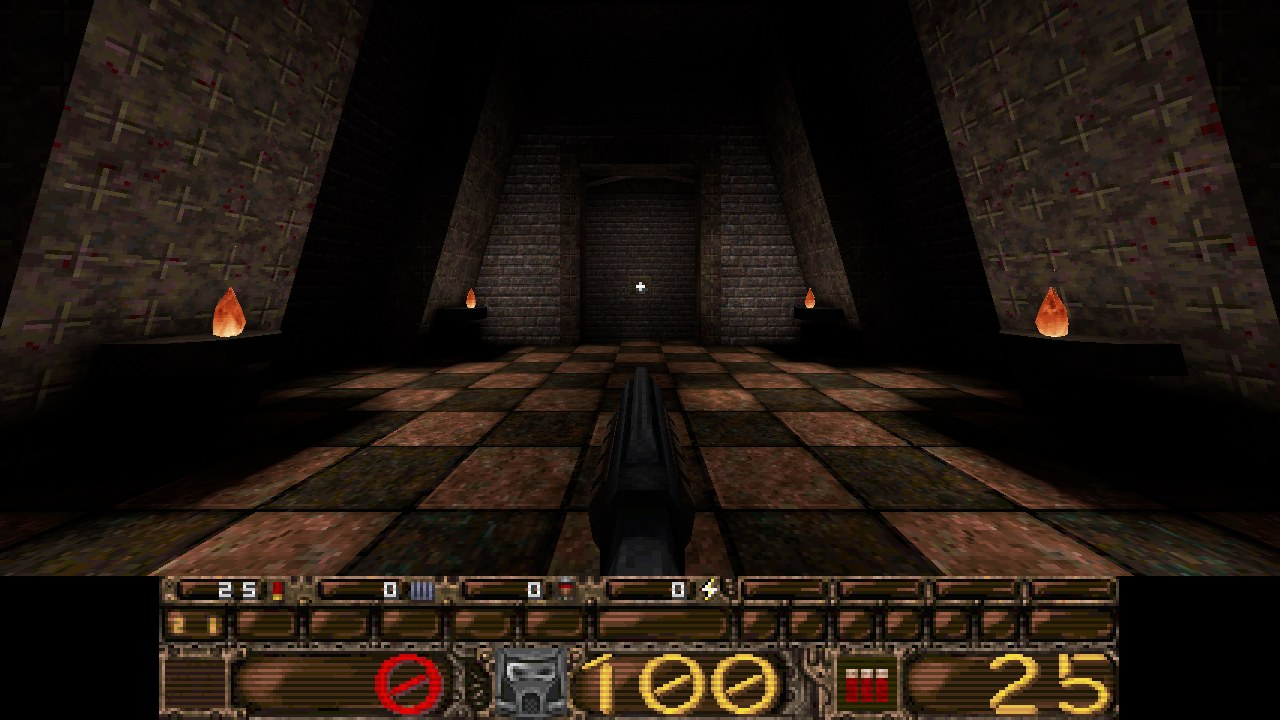
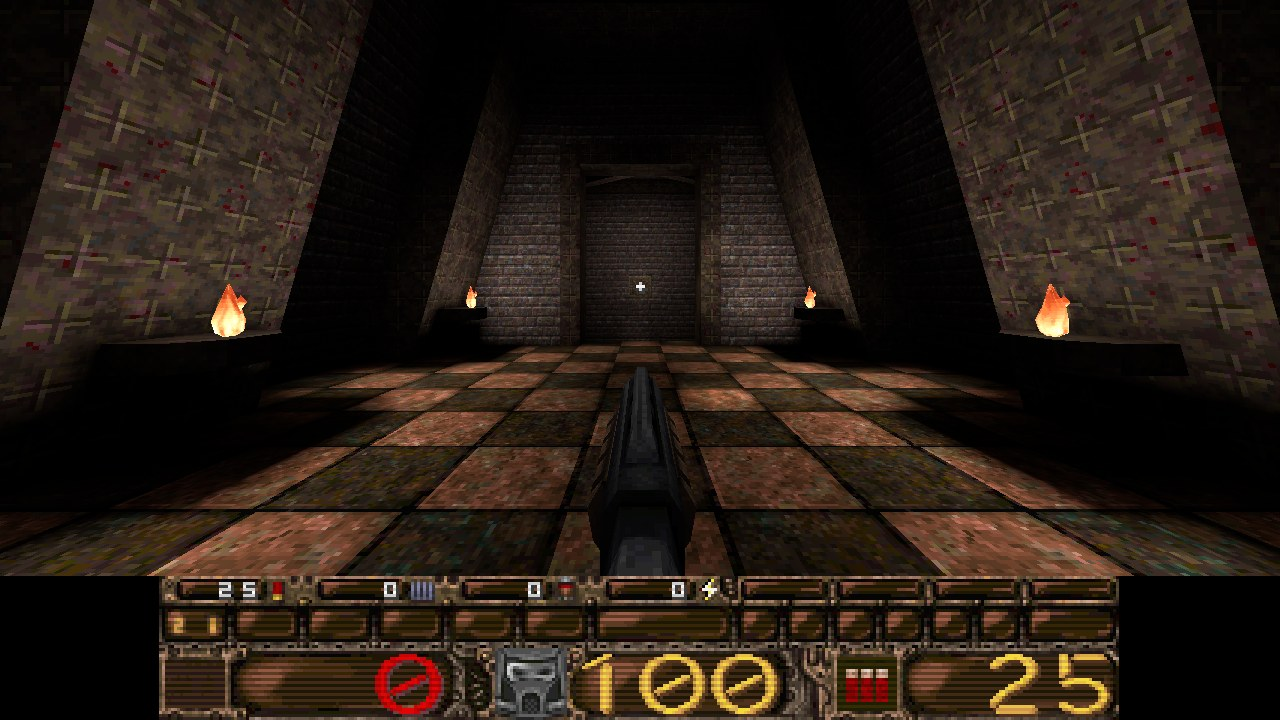
Rewrap the Continue row comment and brighten the wide screenshot
The wide screenshot is taken at gamma 0.6, a setting the brightness slider reaches, because LibreQuake renders dark in Icaro.

diff --git a/src/menu.js b/src/menu.js
@@ -834,8 +834,9 @@ function M_Main_Draw() {
   // menu.c M_Main_Draw draws gfx/mainmenu.lmp. The port adds a Continue row
   // above it while in a game. Only that row comes from the custom image
   // (static/mainmenu.png, 21 px of Icaro's own plain lettering, since neither
-  // id1 nor LibreQuake has a Continue graphic); the five C rows always come from the PAK, whose
-  // fourth row reads HELP, because it opens M_Menu_Help_f.
+  // id1 nor LibreQuake has a Continue graphic); the five C rows always come
+  // from the PAK, whose fourth row reads HELP, because it opens
+  // M_Menu_Help_f.
   const mainPic = _Draw_CachePic("gfx/mainmenu.lmp");
 
   if (inGame) {
